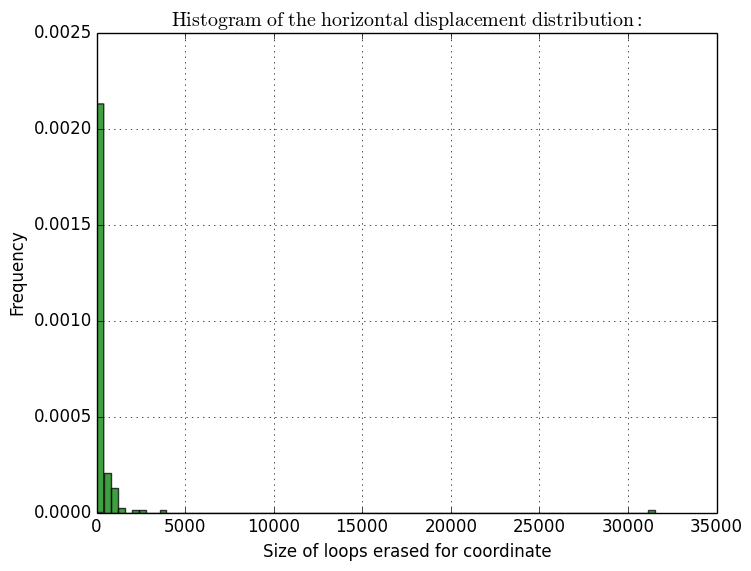
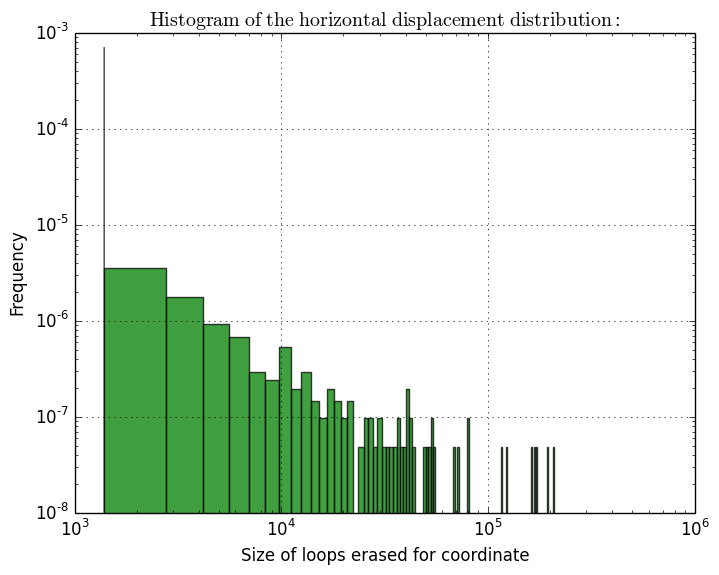
update code

Changed region(s): [[0.0, 0.0, 1.0, 0.9825]]

diff --git a/LERW_horizontal_displacement_distribution.py b/LERW_horizontal_displacement_distribution.py
@@ -11,33 +11,43 @@
 import numpy as np
 import matplotlib.pyplot as plt
 from LERW import LERW
+import itertools
+
 
 randomwalk = LERW()
 randomwalk.generate(realizations=50, Length=200, Circ=200)
 ELsizes = randomwalk.ErasedLoopSizes
-ELsizes = list(map(list, zip(*ELsizes)))
-x = []
+x = list(itertools.chain(*ELsizes))
 
-for i in range(len(ELsizes)):
-    x.append(np.mean(ELsizes[i]))
+# for s in list(itertools.chain(*ELsizes)):
+#     print s
+
+
+# ELsizes = list(map(list, zip(*ELsizes)))
+# x = []
+
+# for i in range(len(ELsizes)):
+#     x.append(np.mean(ELsizes[i]))
 x = np.array(x)
 # Distribution of size of loops erased with repect to displacement histogram
 
 # the histogram of the data
-n, bins, patches = plt.hist(x, 80, normed=1, facecolor='green', alpha=0.75)
+n, bins, patches = plt.hist(x, bins=150, normed=1, facecolor='green', alpha=0.75)
 
 plt.xlabel('Size of loops erased for coordinate')
 plt.ylabel('Frequency')
+plt.yscale('log', nonposy='clip')
+plt.xscale('log', nonposy='clip')
+# plt.yscale('log')
+# plt.xscale('log')
+# plt.loglog(x, basex=2)
 plt.title(r'$\mathrm{Histogram\ of\ the\ horizontal\ displacement\ distribution:}\ $')
 plt.grid(True)
 
 plt.savefig(__file__[:-3]+"_histogram.png", bbox_inches="tight")
 
 # x = [ pow(10,i) for i in x]
-plt.yscale('log')
-plt.xscale('log')
-plt.subplot(223)
-plt.title(r'$\mathrm{Double\ logarithmic\ (scales)\ plot\ for\ distribution:}\ $')
-plt.grid(True)
-plt.loglog(x, pow(x, 10) , basex=2)
-plt.savefig(__file__[:-3]+"_loglog.png", bbox_inches="tight", dpi=200)
+# plt.title(r'$\mathrm{Double\ logarithmic\ (scales)\ plot\ for\ distribution:}\ $')
+# plt.grid(True)
+# plt.loglog(x, pow(x, 10) , basex=2)
+# plt.savefig(__file__[:-3]+"_loglog.png", bbox_inches="tight", dpi=200)

diff --git a/BD_LERW_ratio.py b/BD_LERW_ratio.py
@@ -18,7 +18,9 @@ LERW_LeftRight = randomwalk.trajectories_leftright
 LERW_RightLeft = randomwalk.trajectories_rightleft
 
 for i in range(len(LERW_RightLeft)):
-    intr.append(set(LERW_LeftRight[i]).intersection(LERW_RightLeft[i]))
+    intersection = set(LERW_LeftRight[i]).intersection(LERW_RightLeft[i])
+    if intersection:
+        intr.append(intersection)
 
 
 
